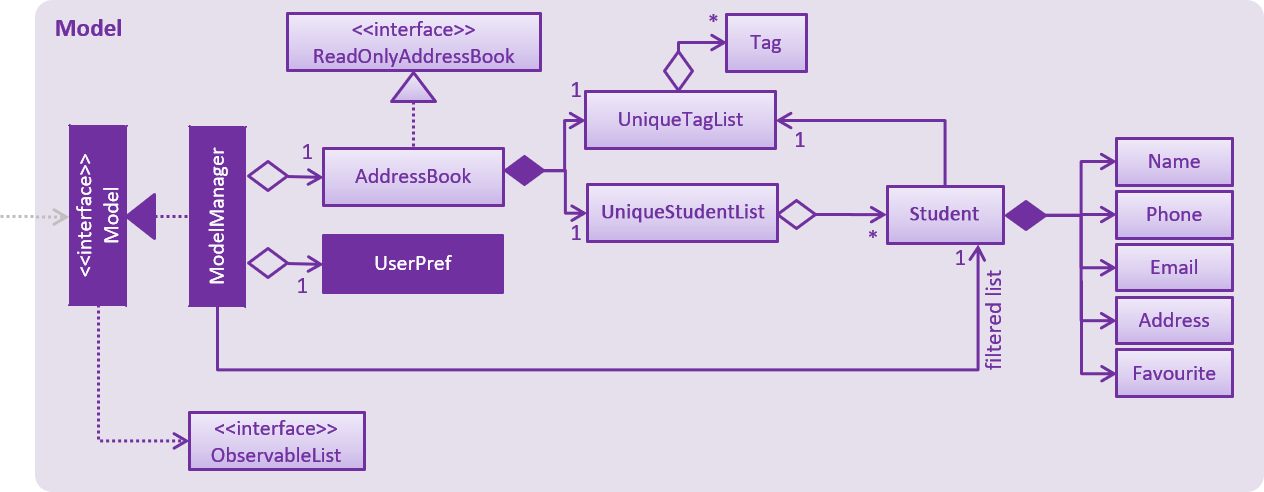
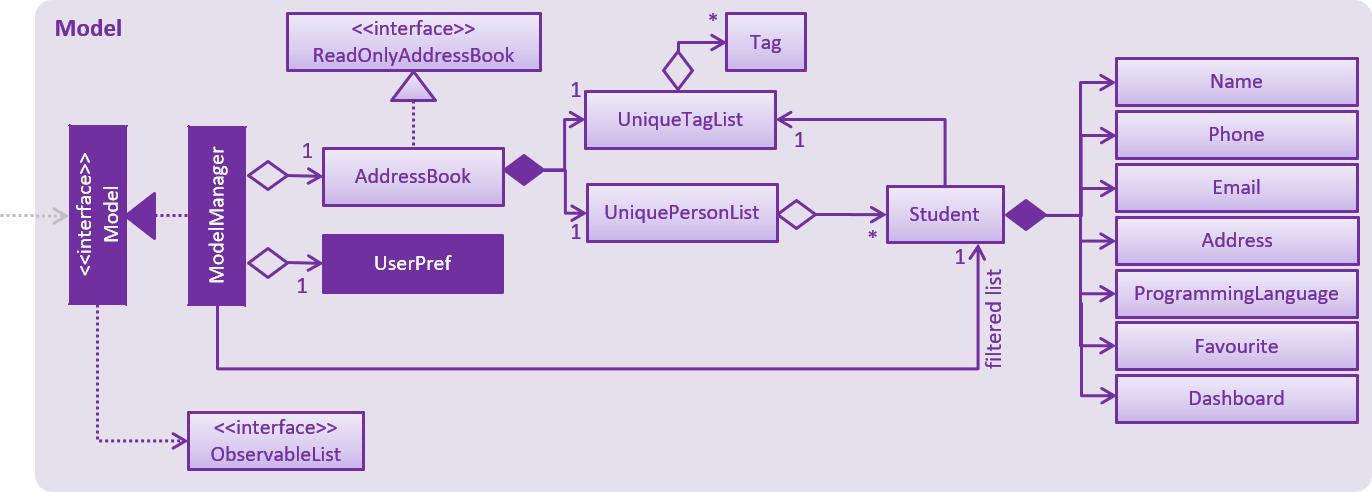
Rebuild pages at d9e34204eaa91be6dd30db58da03de801e8a8df5

diff --git a/DeveloperGuide.html b/DeveloperGuide.html
@@ -46,10 +46,11 @@
 <ul class="sectlevel2">
 <li><a href="#undo-redo-feature">3.1. Undo/Redo feature</a></li>
 <li><a href="#proposed-data-encryption">3.2. [Proposed] Data Encryption</a></li>
-<li><a href="#location-feature">3.3. Location feature</a></li>
-<li><a href="#programming-language-feature">3.4. Programming Language Feature</a></li>
-<li><a href="#logging">3.5. Logging</a></li>
-<li><a href="#Implementation-Configuration">3.6. Configuration</a></li>
+<li><a href="#favourites-feature">3.3. Favourites feature</a></li>
+<li><a href="#location-feature">3.4. Location feature</a></li>
+<li><a href="#programming-language-feature">3.5. Programming Language Feature</a></li>
+<li><a href="#logging">3.6. Logging</a></li>
+<li><a href="#Implementation-Configuration">3.7. Configuration</a></li>
 </ul>
 </li>
 <li><a href="#documentation">4. Documentation</a>
@@ -881,9 +882,109 @@ If the <code>redoStack</code> is empty, then there are no other commands left to
 </div>
 </div>
 <div class="sect2">
-<h3 id="location-feature"><a class="link" href="#location-feature">3.3. Location feature</a></h3>
+<h3 id="favourites-feature"><a class="link" href="#favourites-feature">3.3. Favourites feature</a></h3>
 <div class="sect3">
 <h4 id="current-implementation-2"><a class="link" href="#current-implementation-2">3.3.1. Current Implementation</a></h4>
+<div class="paragraph">
+<p>To facilitate the favourite/unfavourite feature, a <code>Favourite</code> attribute is added to the <code>Student</code> class:</p>
+</div>
+<div class="imageblock">
+<div class="content">
+<img src="images/StudentClassDiagram.png" alt="StudentClassDiagram" width="800">
+</div>
+</div>
+<div class="paragraph">
+<p>Since the implementation of the favourite and unfavourite command are similar, we will talk about the implementation of the favourite command only.</p>
+</div>
+<div class="paragraph">
+<p>The logic part of the favourite command will be executed by the <code>FavouriteCommand</code> class.
+To mark a <code>Student</code> object called "studentToFavourite" as favourite:</p>
+</div>
+<div class="ulist">
+<ul>
+<li>
+<p>A Student object called "editedStudent" will be created by <code>FavouriteCommand.createEditedStudent(Student)</code>, which is implemented as such:</p>
+</li>
+</ul>
+</div>
+<div class="listingblock">
+<div class="content">
+<pre>    private static Student createEditedStudent(Student target) {
+        assert target != null;
+
+        Name name = target.getName();
+        Phone phone = target.getPhone();
+        // ... get the rest of the target's attributes ...
+        Favourite fav = new Favourite(true);
+
+        return new Student(name, phone, email, address, programmingLanguage, tags, fav, dashboard);
+    }</pre>
+</div>
+</div>
+<div class="ulist">
+<ul>
+<li>
+<p>editedStudent will have the attributes of studentToFavourite, except that its <code>Favourite</code> attribute will be set to "true"</p>
+</li>
+<li>
+<p><code>Model.updateStudent(Student, Student)</code> is used to replace studentToFavourite with editedStudent in the Address Book in-memory</p>
+</li>
+</ul>
+</div>
+<div class="admonitionblock note">
+<table>
+<tr>
+<td class="icon">
+<i class="fa icon-note" title="Note"></i>
+</td>
+<td class="content">
+If you have a future implementation that requires the addition of a new attribute in the <code>Student</code> class, you must take note of updating the <code>FavouriteCommand.createEditedStudent(Student)</code> method to reflect the new attribute.
+</td>
+</tr>
+</table>
+</div>
+</div>
+<div class="sect3">
+<h4 id="design-considerations-2"><a class="link" href="#design-considerations-2">3.3.2. Design Considerations</a></h4>
+<div class="sect4">
+<h5 id="aspect-implementation-of-favouritecommand"><a class="link" href="#aspect-implementation-of-favouritecommand">Aspect: Implementation of 'FavouriteCommand'</a></h5>
+<div class="ulist">
+<ul>
+<li>
+<p><strong>Alternative 1 (current choice)</strong>: Add a <code>Favourite</code> attribute to <code>Student</code></p>
+<div class="ulist">
+<ul>
+<li>
+<p>Pro: It is easy to mark a student as favourite since we can make use of the current <code>Model.updateStudent(Student, Student)</code> method by creating a copy of the target <code>Student</code> object, with the value of its <code>Favourite</code> attribute set to "true"</p>
+</li>
+<li>
+<p>Con: Creating a copy of the <code>Student</code> object can be inefficient</p>
+</li>
+</ul>
+</div>
+</li>
+<li>
+<p><strong>Alternative 2</strong>: Create a new <code>UniqueFavouriteStudentsList</code> that contains the list of students in favourites and store this list in the Address Book</p>
+<div class="ulist">
+<ul>
+<li>
+<p>Pro: Students that are currently in favourites can be managed more easily since there is a direct overview of which student is in favourites</p>
+</li>
+<li>
+<p>Con: Students in the <code>UniqueFavouriteStudentsList</code> have to be synced with the <code>UniqueStudentsList</code>. For example, we have to ensure that deleting a student in the <code>UniqueStudentList</code> deletes the student in the <code>UniqueFavouriteStudentsList</code> too</p>
+</li>
+</ul>
+</div>
+</li>
+</ul>
+</div>
+</div>
+</div>
+</div>
+<div class="sect2">
+<h3 id="location-feature"><a class="link" href="#location-feature">3.4. Location feature</a></h3>
+<div class="sect3">
+<h4 id="current-implementation-3"><a class="link" href="#current-implementation-3">3.4.1. Current Implementation</a></h4>
 <div class="paragraph">
 <p>Selecting a student using the <code>select</code> command will render their location on google maps.</p>
 </div>
@@ -909,7 +1010,7 @@ If the <code>redoStack</code> is empty, then there are no other commands left to
 </div>
 </div>
 <div class="sect3">
-<h4 id="design-considerations-2"><a class="link" href="#design-considerations-2">3.3.2. Design Considerations</a></h4>
+<h4 id="design-considerations-3"><a class="link" href="#design-considerations-3">3.4.2. Design Considerations</a></h4>
 <div class="sect4">
 <h5 id="aspect-implementation-of-displaying-student-locations"><a class="link" href="#aspect-implementation-of-displaying-student-locations">Aspect: Implementation of displaying student locations</a></h5>
 <div class="ulist">
@@ -946,9 +1047,9 @@ If the <code>redoStack</code> is empty, then there are no other commands left to
 </div>
 </div>
 <div class="sect2">
-<h3 id="programming-language-feature"><a class="link" href="#programming-language-feature">3.4. Programming Language Feature</a></h3>
+<h3 id="programming-language-feature"><a class="link" href="#programming-language-feature">3.5. Programming Language Feature</a></h3>
 <div class="sect3">
-<h4 id="current-implementation-3"><a class="link" href="#current-implementation-3">3.4.1. Current Implementation</a></h4>
+<h4 id="current-implementation-4"><a class="link" href="#current-implementation-4">3.5.1. Current Implementation</a></h4>
 <div class="paragraph">
 <p>The programming language feature involves having an additional class to the student model called <code>ProgrammingLanguage</code>.
 It stores the name of the programming language currently being taught to each student as a string.</p>
@@ -1024,7 +1125,7 @@ a <code>Student</code> object with attributes including <code>ProgrammingLanguag
 </div>
 </div>
 <div class="sect3">
-<h4 id="design-considerations-3"><a class="link" href="#design-considerations-3">3.4.2. Design Considerations</a></h4>
+<h4 id="design-considerations-4"><a class="link" href="#design-considerations-4">3.5.2. Design Considerations</a></h4>
 <div class="sect4">
 <h5 id="aspect-how-to-store-code-programminglanguage-code-for-a-code-student-code"><a class="link" href="#aspect-how-to-store-code-programminglanguage-code-for-a-code-student-code">Aspect: How to store <code>ProgrammingLanguage</code> for a <code>Student</code></a></h5>
 <div class="ulist">
@@ -1094,14 +1195,14 @@ a <code>Student</code> object with attributes including <code>ProgrammingLanguag
 </div>
 </div>
 <div class="sect2">
-<h3 id="logging"><a class="link" href="#logging">3.5. Logging</a></h3>
+<h3 id="logging"><a class="link" href="#logging">3.6. Logging</a></h3>
 <div class="paragraph">
 <p>We are using <code>java.util.logging</code> package for logging. The <code>LogsCenter</code> class is used to manage the logging levels and logging destinations.</p>
 </div>
 <div class="ulist">
 <ul>
 <li>
-<p>The logging level can be controlled using the <code>logLevel</code> setting in the configuration file (See <a href="#Implementation-Configuration">Section 3.6, &#8220;Configuration&#8221;</a>)</p>
+<p>The logging level can be controlled using the <code>logLevel</code> setting in the configuration file (See <a href="#Implementation-Configuration">Section 3.7, &#8220;Configuration&#8221;</a>)</p>
 </li>
 <li>
 <p>The <code>Logger</code> for a class can be obtained using <code>LogsCenter.getLogger(Class)</code> which will log messages according to the specified logging level</p>
@@ -1132,7 +1233,7 @@ a <code>Student</code> object with attributes including <code>ProgrammingLanguag
 </div>
 </div>
 <div class="sect2">
-<h3 id="Implementation-Configuration"><a class="link" href="#Implementation-Configuration">3.6. Configuration</a></h3>
+<h3 id="Implementation-Configuration"><a class="link" href="#Implementation-Configuration">3.7. Configuration</a></h3>
 <div class="paragraph">
 <p>Certain properties of the application can be controlled (e.g App name, logging level) through the configuration file (default: <code>config.json</code>).</p>
 </div>
@@ -2753,7 +2854,7 @@ Expected: Similar to previous.</p>
 </div>
 <div id="footer">
 <div id="footer-text">
-Last updated 2018-03-21 10:01:07 UTC
+Last updated 2018-03-21 12:05:25 UTC
 </div>
 </div>
 </body>

diff --git a/LearningOutcomes.html b/LearningOutcomes.html
@@ -561,7 +561,7 @@ class gives some examples of how to use <em>Equivalence Partitions</em>, <em>Bou
 </div>
 <div id="footer">
 <div id="footer-text">
-Last updated 2018-03-21 10:01:07 UTC
+Last updated 2018-03-21 12:05:25 UTC
 </div>
 </div>
 </body>

diff --git a/UsingCoveralls.html b/UsingCoveralls.html
@@ -115,7 +115,7 @@ If you have not set up Travis CI, see <a href="UsingTravis.html">UsingTravis.ado
 </div>
 <div id="footer">
 <div id="footer-text">
-Last updated 2018-03-21 10:01:07 UTC
+Last updated 2018-03-21 12:05:25 UTC
 </div>
 </div>
 </body>

diff --git a/UsingGradle.html b/UsingGradle.html
@@ -261,7 +261,7 @@ See <code>build.gradle</code> &#8594; <code>allprojects</code> &#8594; <code>dep
 </div>
 <div id="footer">
 <div id="footer-text">
-Last updated 2018-03-21 10:01:07 UTC
+Last updated 2018-03-21 12:05:25 UTC
 </div>
 </div>
 </body>

diff --git a/UsingNetlify.html b/UsingNetlify.html
@@ -142,7 +142,7 @@ The publish directory is the directory in which the built HTML documentation res
 </div>
 <div id="footer">
 <div id="footer-text">
-Last updated 2018-03-21 10:01:07 UTC
+Last updated 2018-03-21 12:05:25 UTC
 </div>
 </div>
 </body>

diff --git a/team/johndoe.html b/team/johndoe.html
@@ -561,7 +561,7 @@ If the <code>redoStack</code> is empty, then there are no other commands left to
 </div>
 <div id="footer">
 <div id="footer-text">
-Last updated 2018-03-21 10:01:07 UTC
+Last updated 2018-03-21 12:05:25 UTC
 </div>
 </div>
 </body>

diff --git a/UsingTravis.html b/UsingTravis.html
@@ -299,7 +299,7 @@ Suggested change: Remove the codacy badge from <code>README</code>.</p>
 </div>
 <div id="footer">
 <div id="footer-text">
-Last updated 2018-03-21 10:01:07 UTC
+Last updated 2018-03-21 12:05:25 UTC
 </div>
 </div>
 </body>

diff --git a/UsingCheckstyle.html b/UsingCheckstyle.html
@@ -103,7 +103,7 @@ Restart the IDE to complete the installation.</p>
 </div>
 <div id="footer">
 <div id="footer-text">
-Last updated 2018-03-21 10:01:07 UTC
+Last updated 2018-03-21 12:05:25 UTC
 </div>
 </div>
 </body>

diff --git a/TestDocument.html b/TestDocument.html
@@ -178,7 +178,7 @@ This should be on a new line.</p>
 </div>
 <div id="footer">
 <div id="footer-text">
-Last updated 2018-03-21 10:01:07 UTC
+Last updated 2018-03-21 12:05:25 UTC
 </div>
 </div>
 </body>

diff --git a/UserGuide.html b/UserGuide.html
@@ -704,7 +704,7 @@ e.g.<code>select 2</code></p>
 </div>
 <div id="footer">
 <div id="footer-text">
-Last updated 2018-03-21 10:01:07 UTC
+Last updated 2018-03-21 12:05:25 UTC
 </div>
 </div>
 </body>

diff --git a/UsingAppVeyor.html b/UsingAppVeyor.html
@@ -174,7 +174,7 @@ grant access:</p>
 </div>
 <div id="footer">
 <div id="footer-text">
-Last updated 2018-03-21 10:01:07 UTC
+Last updated 2018-03-21 12:05:25 UTC
 </div>
 </div>
 </body>

diff --git a/AboutUs.html b/AboutUs.html
@@ -93,7 +93,7 @@
 </div>
 <div id="footer">
 <div id="footer-text">
-Last updated 2018-03-21 10:01:07 UTC
+Last updated 2018-03-21 12:05:25 UTC
 </div>
 </div>
 </body>
